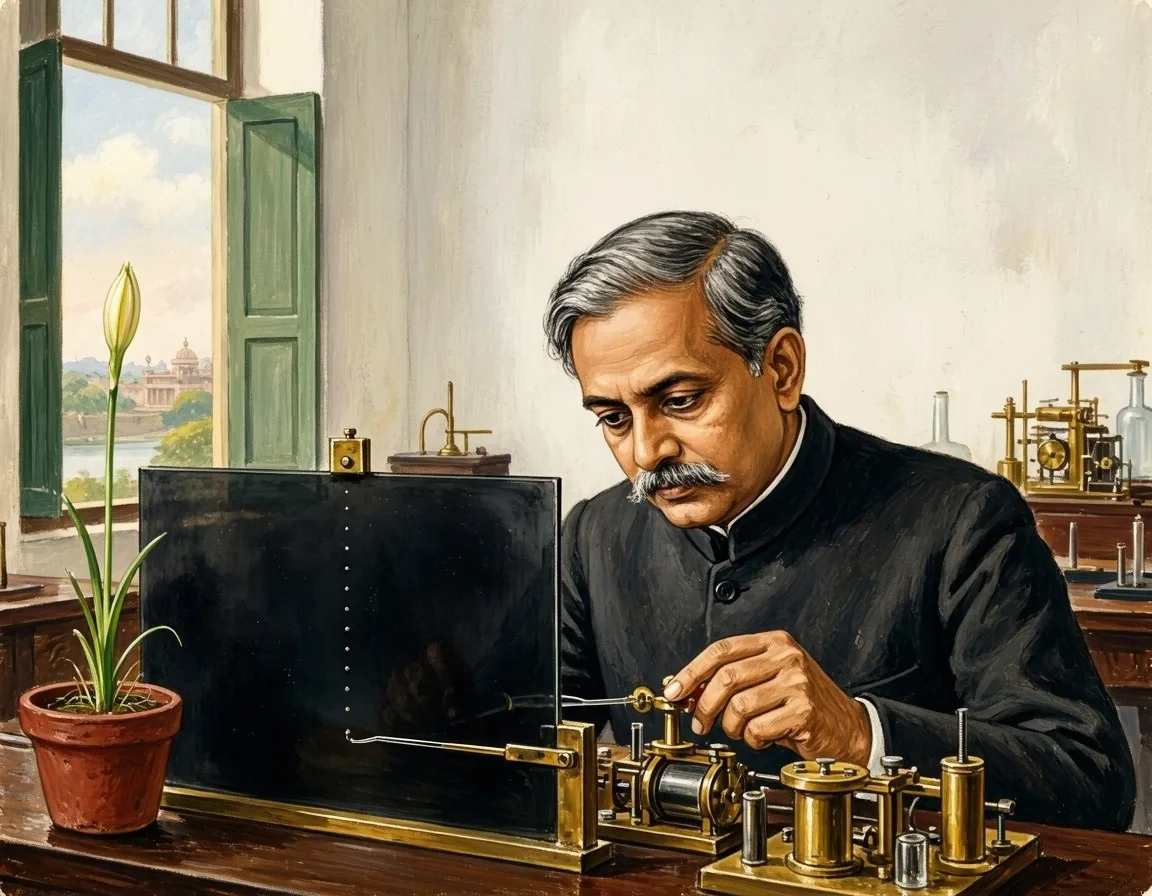
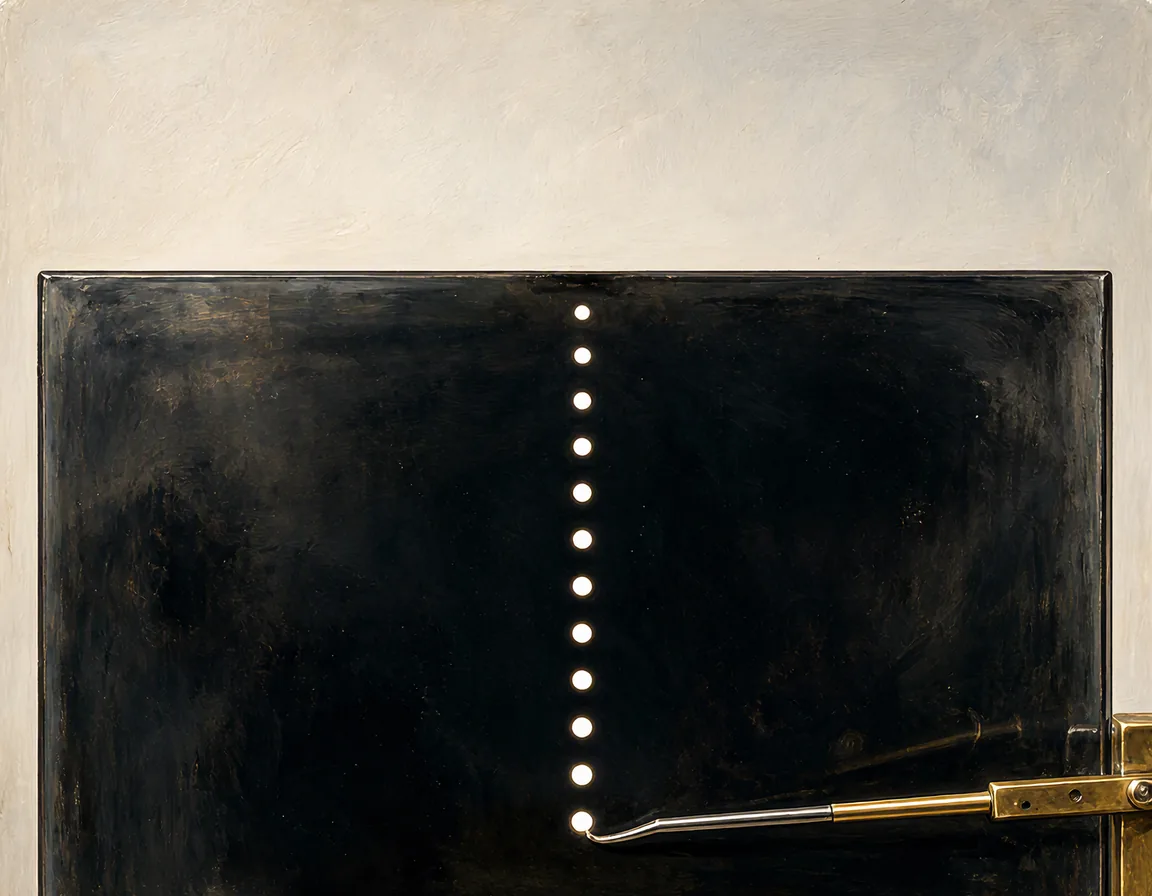
Repair three pictures the final review flagged
Tiny-dinosaur p11 now shows the wall dark when the torch is covered;
Holi p12 has one Mia; Bose p8 is a close-up of the trace and p9 is a
drawn figure whose dot gaps actually differ, since generated columns
came out nearly equal.

diff --git a/src/components/figures/BoseTheThreeTraces.tsx b/src/components/figures/BoseTheThreeTraces.tsx
@@ -1,0 +1,57 @@
+/**
+ * Bose, page 9: what the dots on the smoked plate say.
+ *
+ * The page asks a five-year-old to compare dot spacing, and generated art
+ * drew three columns whose gaps were nearly the same, which hides the very
+ * evidence the words point at. So the record is drawn from numbers: one
+ * column per condition, the gap between dots proportional to how much the
+ * stalk grew between two touches of the plate.
+ *
+ * Ordinary (medium gaps), cooled (gaps shrink: growth slows), warmed (gaps
+ * widen: growth speeds up). The values are illustrative, not Bose's data;
+ * the caption says so.
+ */
+
+const W = 760;
+const H = 470;
+const PLATE = { x: 150, y: 40, w: 460, h: 360 };
+const TOP = PLATE.y + 40;
+const DOT_R = 8;
+
+const COLUMNS: ReadonlyArray<{ readonly label: string; readonly gap: number; readonly x: number }> = [
+  { label: 'Ordinary', gap: 40, x: PLATE.x + 90 },
+  { label: 'Cooled', gap: 16, x: PLATE.x + PLATE.w / 2 },
+  { label: 'Warmed', gap: 64, x: PLATE.x + PLATE.w - 90 },
+];
+
+const dots = (x: number, gap: number) => {
+  const out: number[] = [];
+  for (let y = TOP; y <= PLATE.y + PLATE.h - 30; y += gap) out.push(y);
+  return out.map((y, i) => <circle key={i} cx={x} cy={y} r={DOT_R} fill="#f6f1e6" />);
+};
+
+export function BoseTheThreeTraces() {
+  return (
+    <svg
+      className="story-figure__svg"
+      viewBox={`0 0 ${W} ${H}`}
+      role="img"
+      aria-label="A smoke-blackened glass plate with three columns of white dots. In the first column, for an ordinary plant, the dots are a medium distance apart. In the middle column, for a cooled plant, the dots are crowded close together, because it grew less between touches. In the third column, for a warmed plant, the dots are far apart, because it grew more."
+    >
+      <rect x={PLATE.x - 10} y={PLATE.y - 10} width={PLATE.w + 20} height={PLATE.h + 20} rx="6" fill="#8a6a3c" />
+      <rect x={PLATE.x} y={PLATE.y} width={PLATE.w} height={PLATE.h} rx="3" fill="#1d1a17" />
+      {COLUMNS.map((c) => (
+        <g key={c.label}>
+          {dots(c.x, c.gap)}
+          {/* one gap, bracketed in gold: the thing to compare across columns */}
+          <path d={`M ${c.x + 18} ${TOP} h 18 v ${c.gap} h -18`} fill="none" stroke="#e9b949" strokeWidth="5" strokeLinejoin="round" />
+          <text x={c.x} y={PLATE.y + PLATE.h + 42} textAnchor="middle" fontSize="24" fontWeight="700" fill="#24170f">
+            {c.label}
+          </text>
+        </g>
+      ))}
+    </svg>
+  );
+}
+
+export default BoseTheThreeTraces;

diff --git a/src/books/data/bose-measures-a-growing-plant.ts b/src/books/data/bose-measures-a-growing-plant.ts
@@ -75,7 +75,8 @@ export const book: Book = {
     },
     {
       text: 'As the plant grew, the point crept down, so each dot landed lower. The gap between two dots showed how much it grew. Cooling a plant made the gaps shrink. Warming it made them widen.',
-      zone: 'left',
+      zone: 'bottom',
+      figureId: 'bose-three-traces',
       art: 'Close view over Bose’s right shoulder, which fills the lower right foreground: he holds a smoke-black glass plate up toward the tall window in both hands, studying three columns of tiny pale dots side by side on it, each running down from the top: in the first column the dots sit a medium distance apart, in the second they sit close together, in the third they sit far apart. His eyebrows are raised with interest. The left third is the bright, plain window glass behind the plate, calm and empty.',
       alt: 'Bose holds a smoked glass plate up to the window and studies three columns of dots: medium, close and wide.',
     },

diff --git a/src/components/figures/index.tsx b/src/components/figures/index.tsx
@@ -3,6 +3,7 @@ import { OliveTheStone } from './OliveTheStone';
 import { OliveScrewAndNut } from './OliveScrewAndNut';
 import { OliveTheLongBar } from './OliveTheLongBar';
 import { OliveTheSqueeze } from './OliveTheSqueeze';
+import { BoseTheThreeTraces } from './BoseTheThreeTraces';
 
 /**
  * Hand-authored diagrams, keyed by `StoryPage.figureId`.
@@ -39,6 +40,11 @@ const specs: readonly StoryFigureSpec[] = [
     id: 'olive-the-squeeze',
     caption: 'Watch the gold. Before, it is locked inside the paste. After, it has been pushed out through the weave — and the paste is still there.',
     render: () => <OliveTheSqueeze />,
+  },
+  {
+    id: 'bose-three-traces',
+    caption: 'One plate, three plants. Each dot is one touch of the lever point; the gap between two dots is how much the stalk grew in between. The spacings are drawn to show the idea, not copied from Bose’s records.',
+    render: () => <BoseTheThreeTraces />,
   },
 ];
 

diff --git a/src/styles/lc/book-figure.css b/src/styles/lc/book-figure.css
@@ -1,0 +1,8 @@
+/*
+ * A diagram page in a picture book (BookPage.figureId): the drawn figure sits
+ * in the art's place and leaves the words zone clear, with its caption small
+ * under it. Kept apart from book.css so the spread rules stay about art.
+ */
+.spread__figure .story-figure { width: 100%; height: 100%; display: flex; flex-direction: column; justify-content: flex-start; gap: 6px; }
+.spread__figure .story-figure__svg { display: block; width: 100%; max-height: 58%; }
+.spread__figure .story-figure__caption { font-family: var(--font-ui); font-size: clamp(0.8rem, 1.6cqi, 1rem); color: var(--ink-soft); margin: 0; text-align: center; }

diff --git a/src/books/BookReader.tsx b/src/books/BookReader.tsx
@@ -2,6 +2,7 @@ import { useEffect, useLayoutEffect, useRef } from 'react';
 import type { Book, BookPage } from './types';
 import { GrownUps } from '../learn/GrownUps';
 import { StoryFigure } from '../components/StoryFigure';
+import '../styles/lc/book-figure.css';
 
 /**
  * The picture-book reader: words set inside the picture.
